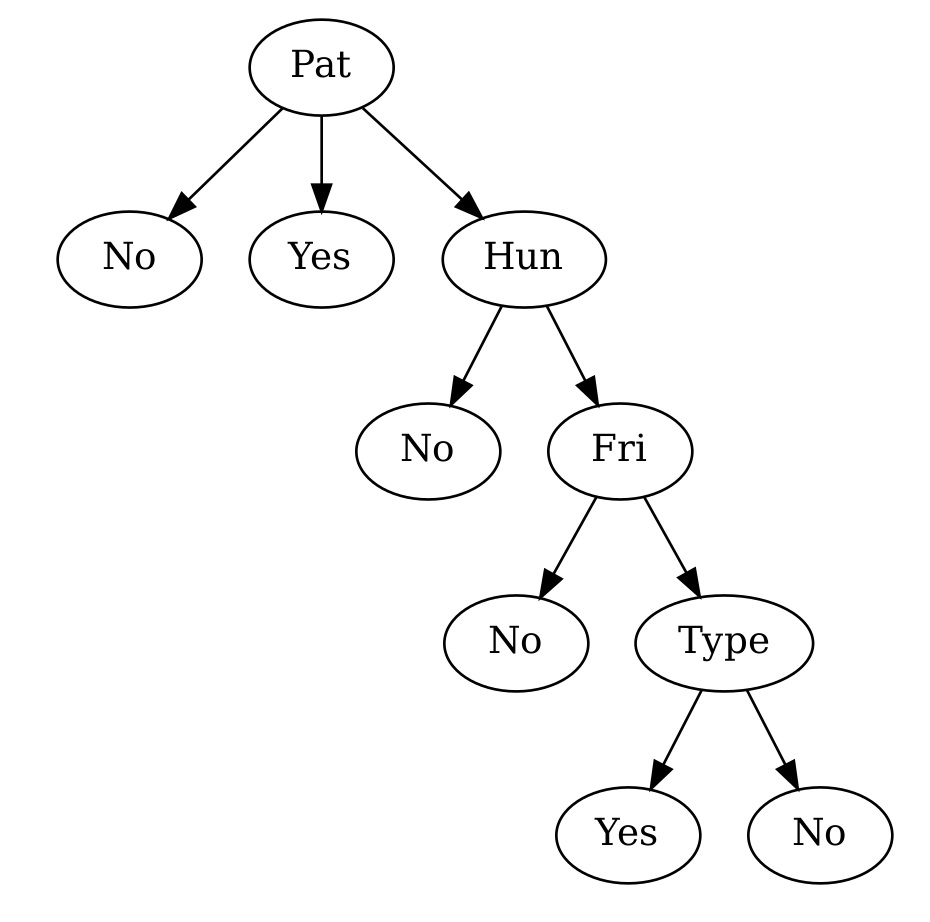
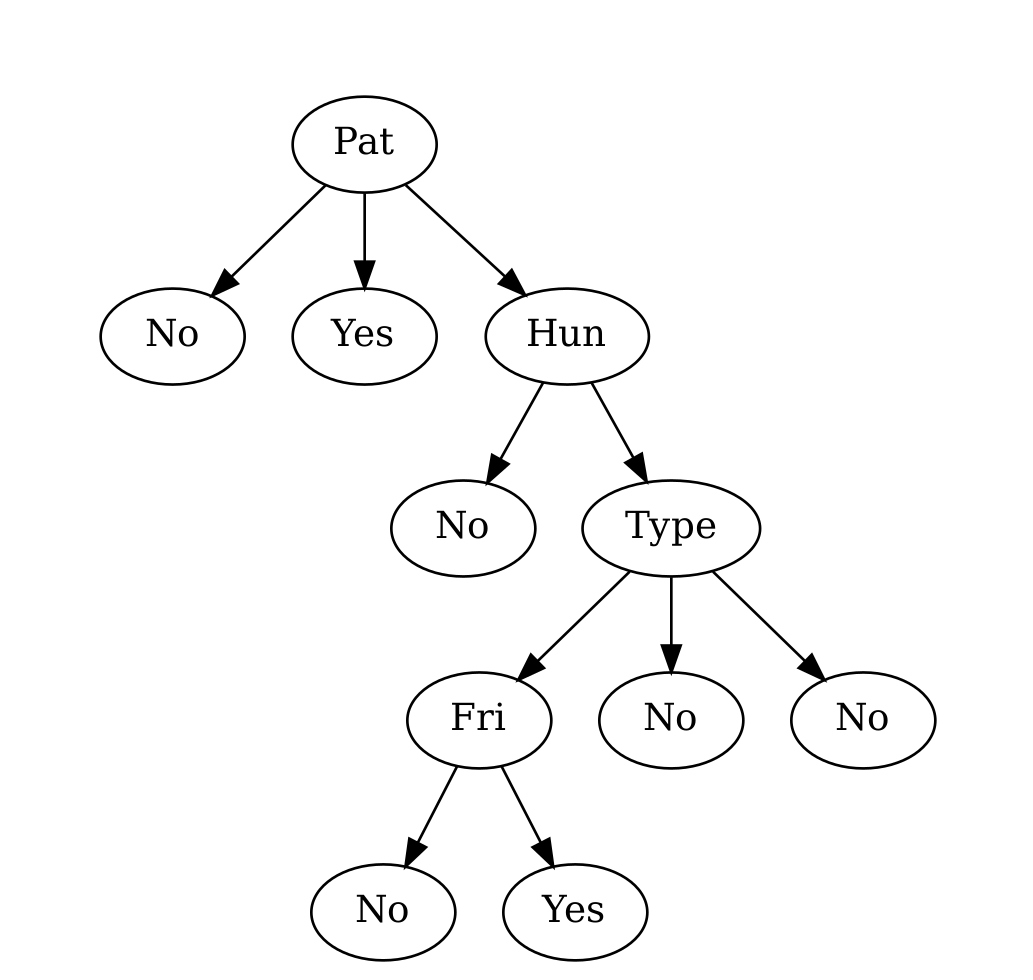
fixed bugs

diff --git a/Reserve/restaurant.py b/Reserve/restaurant.py
@@ -131,7 +131,7 @@ def create_decision_tree(data, parent, col_header):
             choosen_attribute_index = col_header.index(attribute)
     
     node_type = col_header.pop(choosen_attribute_index)
-    data.pop(col_header.index(attribute))
+    data.pop(choosen_attribute_index)
     
     node = Node(parent, node_type, [])
     parent.append_child(node)
